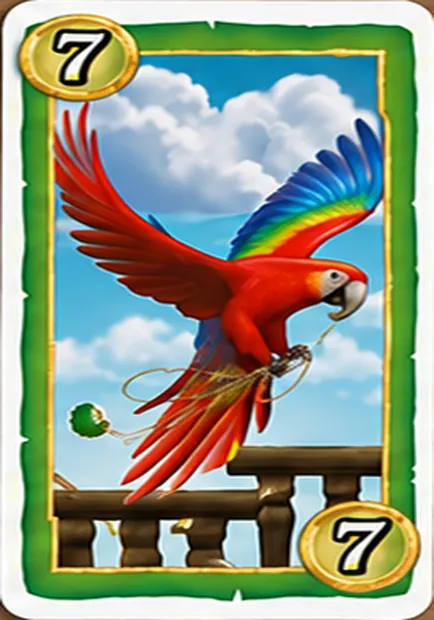
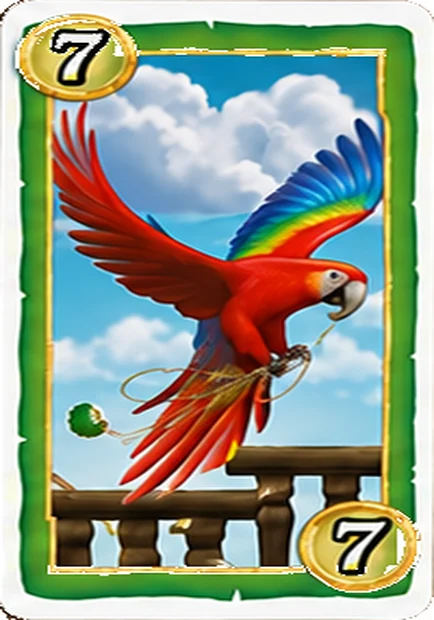
Skull King : les Perroquets régénérés, une seule découpe pour les quatre familles
La première planche des Perroquets avait deux défauts que la nouvelle n'a
plus. Elle arrivait au ratio d'une vraie carte à jouer, ~1:2, quand le jeu
affiche du 7:10 : il fallait l'élargir de 40 %, ce qui ovalisait les
médaillons — invisible à 84 px, mais c'était une rustine assumée. Et sa
numérotation était fausse sur neuf cartes, les quatre médaillons d'angle ne
portant pas tous le même chiffre ; le script les rattrapait en greffant sur
l'angle fautif le médaillon d'un angle juste. Régénérer coûtait moins cher que
d'entretenir la greffe.

La nouvelle planche est faite comme les trois autres : deux rangées de sept,
au format des planches de famille. Elle n'a donc plus besoin de son propre
script — briefs/decouper-cartes-perroquet.py disparaît au profit d'une
quatrième entrée dans briefs/decouper-planche-numerotees.py, qui les découpe
toutes de la même façon et ne les étire plus que de 12 %. Au passage, le bois
du plan de travail s'échantillonne dans les marges latérales, sous le titre :
le bandeau de titre n'a pas la même hauteur d'une planche à l'autre, et
l'échantillonner en aveugle sur une bande horizontale ramenait du blanc.

Les quatorze valeurs sont vérifiées au rendu, en haut comme en bas : 1 à 14,
les deux médaillons d'accord sur chaque carte.

Rien à changer côté jeu — le Vert garde son pied de parchemin, ses chiffres
n'étant peints que dans les médaillons d'angle, dont celui du haut passe sous
[…]

diff --git a/public/skullking.js b/public/skullking.js
@@ -167,8 +167,8 @@ function cardClass(card) {
   if (card.kind === 'number') {
     if (card.wild14 && card.value == null) return 'sk-card--wild14';
     // Familles peintes : une planche d'illustrations par couleur, quatorze
-    // valeurs (briefs/decouper-planche-numerotees.py, et pour le Vert
-    // briefs/decouper-cartes-perroquet.py). Même mécanique que les Pirates
+    // valeurs, découpées par briefs/decouper-planche-numerotees.py. Même
+    // mécanique que les Pirates
     // illustrés, à ceci près que le pied ne se surimpose que là où
     // l'illustration ne dit pas déjà son chiffre lisiblement (voir SUIT_ART) :
     // sur un Pirate il porte le nom, absent de l'illustration ; sur un Trésor

diff --git a/briefs/decouper-planche-numerotees.py b/briefs/decouper-planche-numerotees.py
@@ -28,12 +28,12 @@ RACINE = Path(__file__).resolve().parent.parent
 SRC = RACINE / 'public/assets/skin/src'
 OUT = RACINE / 'public/assets/cards'
 
-# planche -> préfixe des quatorze fichiers de sortie. Le vert n'a pas encore
-# sa planche : sa famille reste dessinée en CSS (voir cardClass).
+# planche -> préfixe des quatorze fichiers de sortie.
 PLANCHES = {
     'cartes-tresor-sk.png':    'tresor',
     'cartes-violettes-sk.png': 'carte',
     'cartes-atouts-sk.png':    'pavillon',
+    'cartes-perroquets-sk.png': 'perroquet',
 }
 
 RATIO = 0.7      # celui de .sk-card, height: calc(var(--sk-w) / 0.7)
@@ -57,7 +57,12 @@ def segments(v, seuil, mini):
 
 def grille(a):
     """Les quatorze rectangles, repérés par ce qui n'est PAS le plan de bois."""
-    bois = np.median(a[140:175].reshape(-1, 3), axis=0)
+    # Le bois se relève dans les marges latérales, sous le titre : le bandeau
+    # de titre n'a pas la même hauteur d'une planche à l'autre, et l'échantil-
+    # lonner en aveugle sur une bande horizontale ramenait du blanc.
+    marge = a.shape[0] // 5
+    bois = np.median(np.concatenate([a[marge:, :8].reshape(-1, 3),
+                                     a[marge:, -8:].reshape(-1, 3)]), axis=0)
     hors = np.linalg.norm(a - bois, axis=2) > 60
     lignes = segments(hors[:, 20:-20].mean(axis=1), 0.30, 100)
     lignes = [(y0, y1) for y0, y1 in lignes if y1 - y0 > 200]   # écarte le titre

diff --git a/briefs/habillage-taverne.md b/briefs/habillage-taverne.md
@@ -24,14 +24,17 @@ Ajouter à chaque prompt : `NO TEXT, no lettering, no numbers, no watermark`.
 Deux exceptions, et une seule est gratuite :
 
 - **le logo**, qui ne change jamais ;
-- **la planche des Perroquets** (famille verte), livrée avec son chiffre peint
-  dans les deux médaillons d'or. Le prix de l'entorse est exactement celui que
-  R1 annonce : là où un cadre vide couvrirait les 14 valeurs d'une famille avec
-  **un** fichier, il en faut **14** — 14 générations à surveiller, 14 fichiers
-  à charger (~28 Ko pièce), et aucun 0 possible pour le 0/14 de l'extension,
-  qui retombe donc sur le cadre CSS. On l'a gardée parce que les médaillons
-  peints sont beaux et que le pied de parchemin, lui, reste du DOM. Pour les
-  trois familles restantes : cadre vide, chiffre au DOM.
+- **les quatre familles numérotées**, livrées avec leur chiffre peint dans les
+  médaillons d'or de la carte. Le prix de l'entorse est exactement celui que R1
+  annonce : là où un cadre vide couvrirait les 14 valeurs d'une famille avec
+  **un** fichier, il en faut **14** — soit 56 fichiers pour les quatre familles
+  (~28 Ko pièce), 4 générations à surveiller au lieu d'une image, et aucun 0
+  possible pour le 0/14 de l'extension, qui retombe donc sur le cadre CSS. On
+  l'a gardée parce que les médaillons peints sont beaux et qu'ils gravent le
+  chiffre bien plus gros que ne le ferait un pied de parchemin. Le pied, lui,
+  reste du DOM : les trois familles qui peuvent s'en passer le laissent hors
+  de l'écran, à l'usage des lecteurs d'écran (`sk-card--art-num`), le Vert le
+  garde visible — voir le lot 4.
 
 ### R2 — Tout ce qui s'étire est généré en « 9 tranches »
 
@@ -164,32 +167,30 @@ Format 1× : **84 × 118 px** → générer en 3×, soit ~252 × 354.
 
 | fichier | nb | note |
 |---|---|---|
-| `carte-dos.png` | 1 | Dos de carte, motif symétrique |
-| `cadre-{jaune,violet,noir}.png` | 3 | **Cadre vide** : bord crème, fenêtre de couleur, médaillons d'angle. Le chiffre est écrit par le DOM → 1 image couvre les 14 numérotées d'une famille |
-| `perroquet-{1..14}.webp` | 14 ✅ | La famille **verte**, illustrée valeur par valeur : le chiffre est peint dans les médaillons d'or, donc pas de cadre vide possible. Planche unique de 14 cartes, découpée par `briefs/decouper-cartes-perroquet.py` |
+| `dos-cartes-sk.png` | 1 ✅ | Dos de carte, motif symétrique. Sort à 512 px de large : il ne se voit jamais à plus de 84 px |
+| `cartes-{tresor,violettes,atouts,perroquets}-sk.png` | 4 ✅ | Les quatre familles numérotées, **une planche de 14 cartes chacune** : Trésor (jaune), Carte au trésor (violet), Pavillon noir (l'atout) et Perroquets (vert). Le chiffre est peint dans les médaillons, donc pas de cadre vide possible. Découpées par `briefs/decouper-planche-numerotees.py` |
 | illustrations spéciales | ~20 | Skull King, 2 Sirènes, 5 Pirates *(4 déjà faits)*, 5 Fuites, Tigresse, Butin, Kraken, Baleine blanche, + 6 de l'extension |
 
-Les planches de familles se génèrent d'un coup, les 14 cartes ensemble : c'est
-ce qui leur donne le même cadre et la même lumière.
+Les planches se génèrent d'un coup, les 14 cartes ensemble, en deux rangées de
+sept sur un plan de travail en bois : c'est ce qui leur donne le même cadre et
+la même lumière. Le script repère les cartes par ce qui n'est PAS le bois — le
+bois s'échantillonne dans les marges latérales, sous le titre, dont la hauteur
+change d'une planche à l'autre.
 
 **Le ratio est la seule chose à ne pas rater.** Une carte du jeu fait 7:10
 (`.sk-card` : `height: width / 0.7`), et les illustrations en place sont à ce
-ratio exact — elles se posent en `cover` sans être recadrées. La planche des
-Perroquets, elle, est arrivée au ratio d'une vraie carte à jouer, ~1:2 : bien
-plus étroite. Trois sorties possibles, comparées à la taille réelle
-d'affichage (84 px de large) :
+ratio exact — elles se posent en `cover` sans être recadrées. Les planches, elles,
+sortent en 0,62 de large pour 1 de haut : le découpage étire donc les cartes de
+12 % jusqu'au format du jeu. On avait d'abord élargi le liseré blanc à la place :
+ça ne déformait rien, mais le bord épaissi donnait l'impression d'une carte posée
+sur une autre. Un étirement de 12 % ne se voit pas ; un liseré double, si.
 
-| sortie | ce qu'on y perd |
-|---|---|
-| **recadrer en hauteur** | le cadre lui-même : le bandeau vert du haut et le médaillon d'angle sautent. Éliminé d'office |
-| **poser la carte sur une marge blanche** | une bande blanche franche à gauche et à droite, deux fois plus large qu'en haut — ça se voit tout de suite à côté d'un Pirate |
-| **élargir la carte** ✅ | ~40 % d'étirement horizontal. Le perroquet s'épaissit, les médaillons deviennent des ovales — invisible à 84 px, vérifié au rendu |
-
-D'où le choix du script : élargissement pur, 434 × 620. Mais c'est une
-rustine, pas une méthode. **Pour les planches suivantes, demander le ratio
-7:10 à la génération** (`playing-card frame, aspect ratio 7:10, slightly wide
-— NOT a standard poker card`) : le découpage les reprendra telles quelles et
-il n'y aura plus rien à étirer.
+Reste que c'est une rustine. **Demander le ratio 7:10 à la génération**
+(`playing-card frame, aspect ratio 7:10, slightly wide — NOT a standard poker
+card`) : le découpage reprendra les cartes telles quelles et il n'y aura plus
+rien à étirer. La première planche des Perroquets est arrivée au ratio d'une
+vraie carte à jouer, ~1:2, bien trop étroite pour un étirement discret, et avec
+neuf médaillons mal numérotés ; elle a été régénérée plutôt que rattrapée.
 
 ### Lot 5 — les portraits
 
